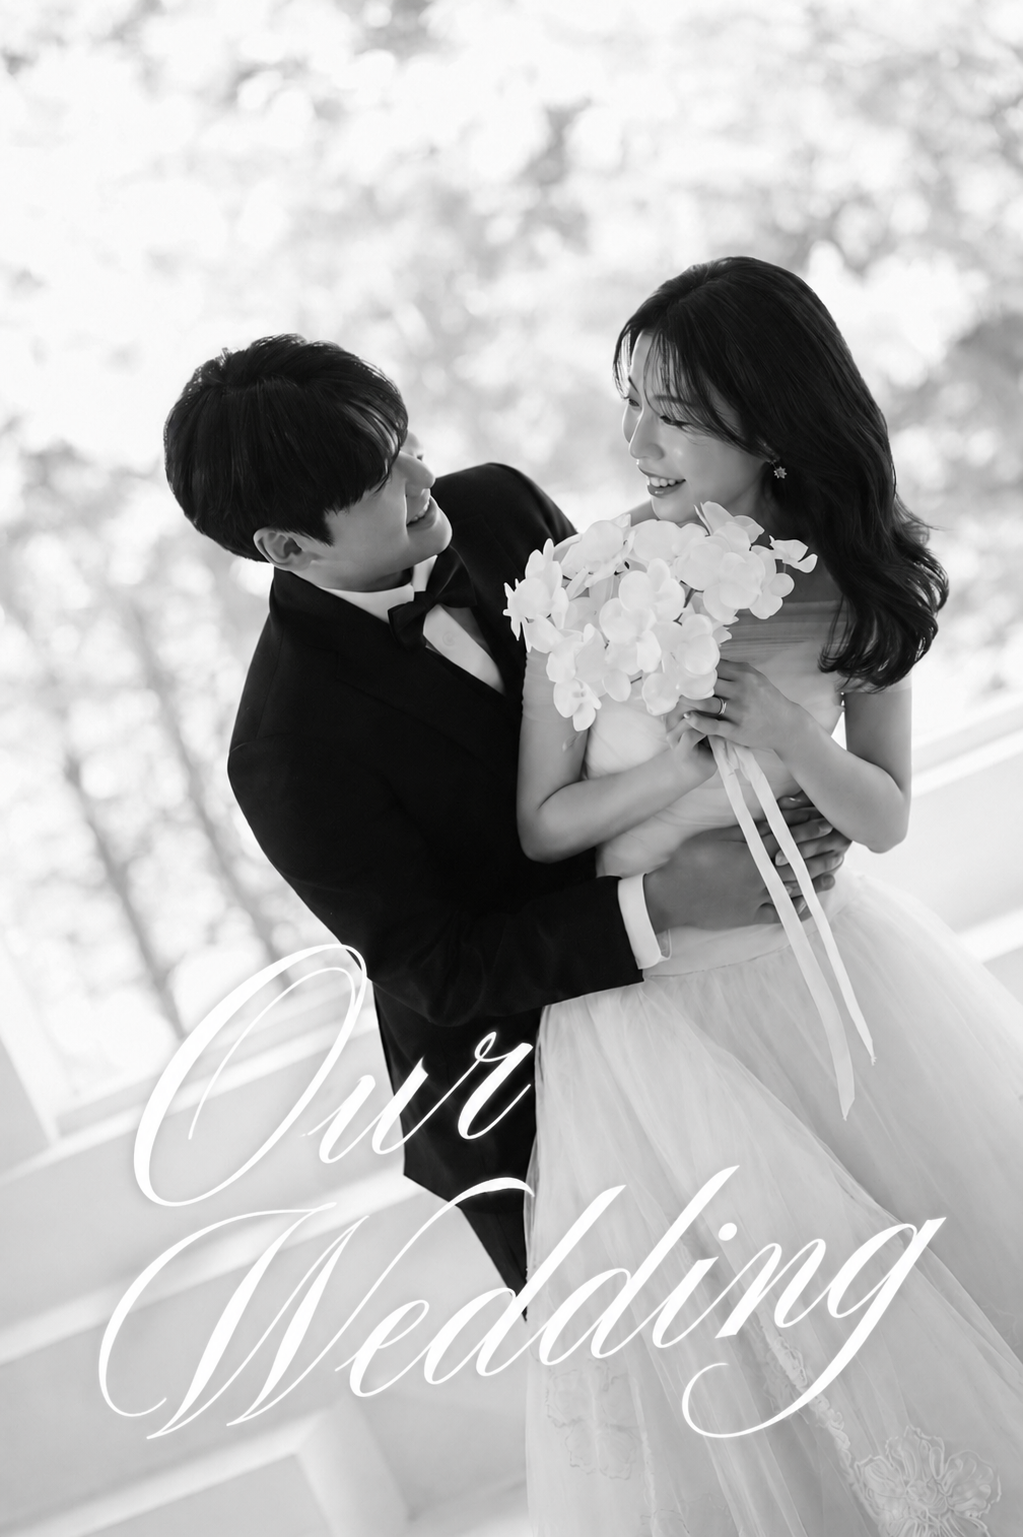
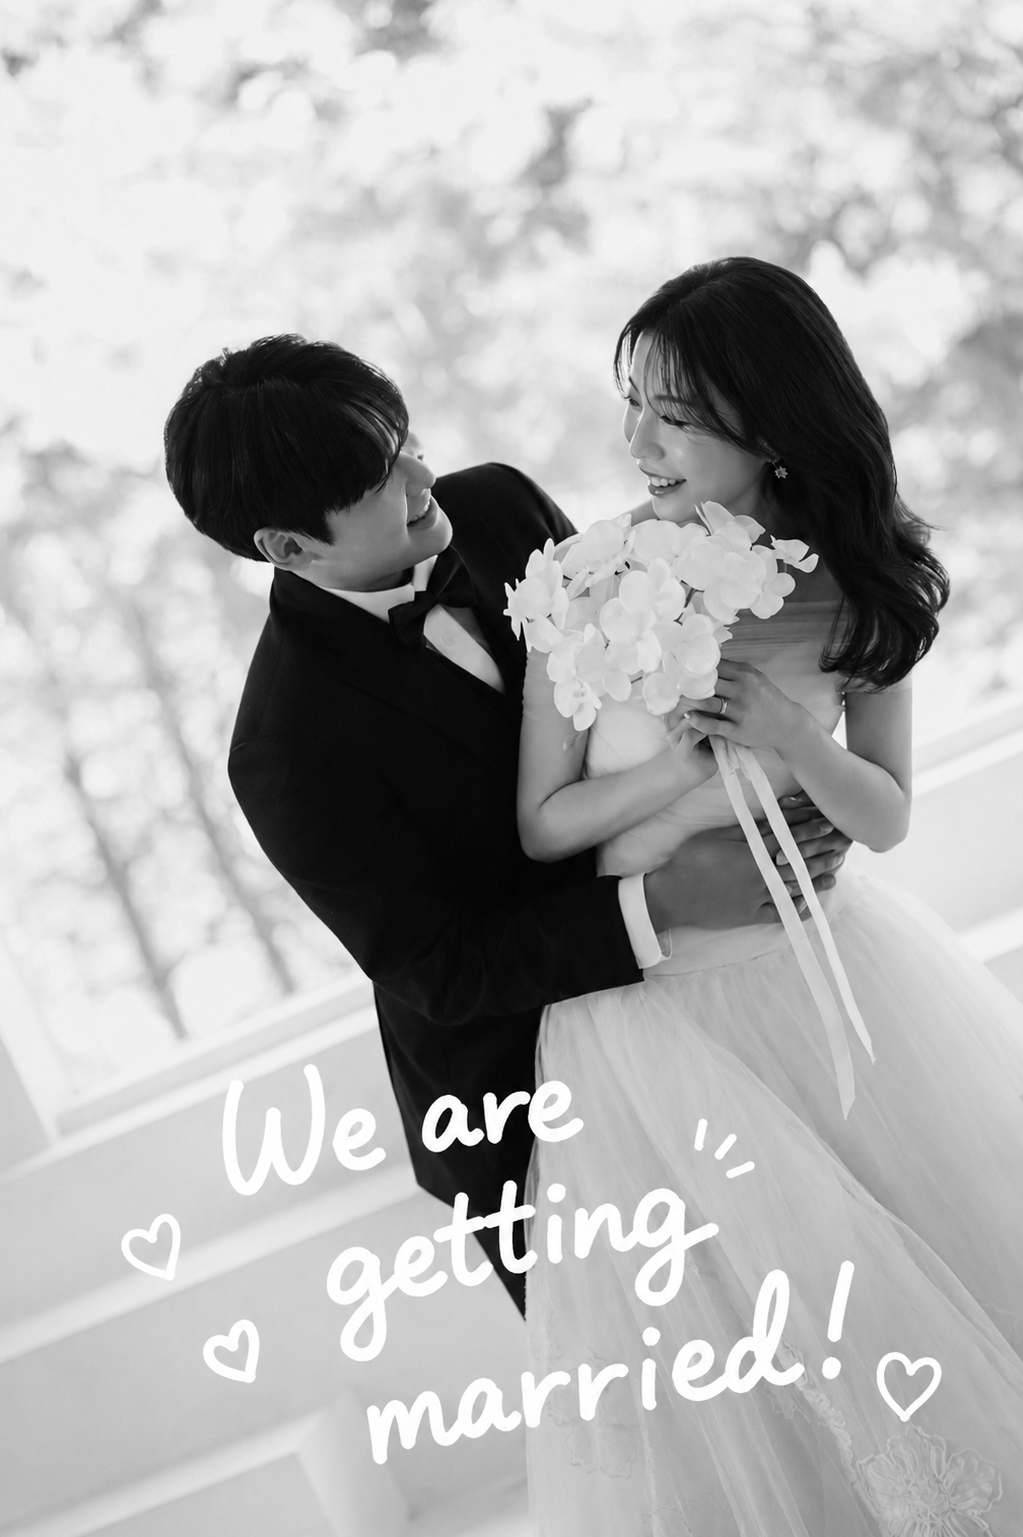
image 변경

diff --git a/our-wedding/src/components/sections/GallerySection.tsx b/our-wedding/src/components/sections/GallerySection.tsx
@@ -15,8 +15,11 @@ import galleryImage10 from '../../images/10.jpg'
 import galleryImage11 from '../../images/11.jpg'
 import galleryImage12 from '../../images/12.jpg'
 import galleryImage13 from '../../images/13.jpg'
-import galleryImage14 from '../../images/14.jpg'
-import galleryImage15 from '../../images/15.jpg'
+import galleryImage14 from '../../images/14.png'
+import galleryImage15 from '../../images/15.png'
+import galleryImage16 from '../../images/16.png'
+import galleryImage17 from '../../images/17.png'
+import galleryImage18 from '../../images/18.png'
 
 type GallerySectionProps = {
   id?: string
@@ -55,6 +58,9 @@ export default function GallerySection({
       galleryImage13,
       galleryImage14,
       galleryImage15,
+      galleryImage16,
+      galleryImage17,
+      galleryImage18,
     ]
   }, [images])
 

diff --git a/our-wedding/src/components/sections/QnASection.tsx b/our-wedding/src/components/sections/QnASection.tsx
@@ -25,21 +25,21 @@ const splitSentences = (text?: string) =>
 const QUESTIONS: QnAItem[] = [
   {
     q: '서로의 첫인상은?',
-    seohyun: '서현: 처음엔 잘생긴 친구가 있네? 정도였는데, 대화를 해보니 정말 재미있고 배려심이 깊은 친구라는 걸 알게 됐어요.',
+    seohyun: '서현: 순둥한 감자상에 웃는 모습이 참 보기 좋았어요. 그런데 노트북 앞에서는 꽤 멋있더라고요.🤭💻',
     yoonsoo: '윤수: 예쁘고 밝은 친구라는 첫인상이었어요. 대화를 해보니 다정한 친구라는 걸 알게 되었어요.'
   },
   {
     q: '데이트 할 때 메뉴를 더 못 고르는 사람은?',
-    seohyun: '서현: 윤수를 배려하는거에요 ...',
+    seohyun: '서현: 윤수는 분명 저라고 할 거예요. 하지만 저는 못 고르는 게 아니라… 상대가 먹고 싶은 걸 먼저 생각하는 편입니다.😉',
     yoonsoo: '윤수: 서현이가 항상 더 못 고르는 편이었어요. 메뉴판을 보면 한참을 보다가 결국엔 제가 고르게 되더라고요.'
   },
   {
     q: '신혼 여행지는 어디인가요?',
-    joint: '서현·윤수: 고유가 시대라 ....ㅠㅠ 내년을 기약 ...'
+    joint: '서현·윤수: 가을 스페인을 꿈꿨지만, 예상보다 오른 유류할증료에 잠시 보류!🥹 대신 겨울쯤 따뜻한 휴양지로 떠날 예정이에요. 결혼식이 끝난 후, 여유롭게 정해보려고 합니다.'
   },
   {
     q: '결혼 후 가장 기대되는 것은?',
-    seohyun: '서현: 퇴근 후 집에서 윤수와의 시간',
+    seohyun: '서현: 윤수가 차려주는 따뜻한 밥상...? 🤭🍚',
     yoonsoo: '윤수: 퇴근 후 집에서 서현과의 시간'
   }
 ]

diff --git a/our-wedding/src/components/sections/QnASection.css b/our-wedding/src/components/sections/QnASection.css
@@ -130,7 +130,7 @@
 }
 
 .qna .qna-message--joint::before {
-  content: '💕';
+  
   display: inline-flex;
   align-items: center;
   justify-content: center;